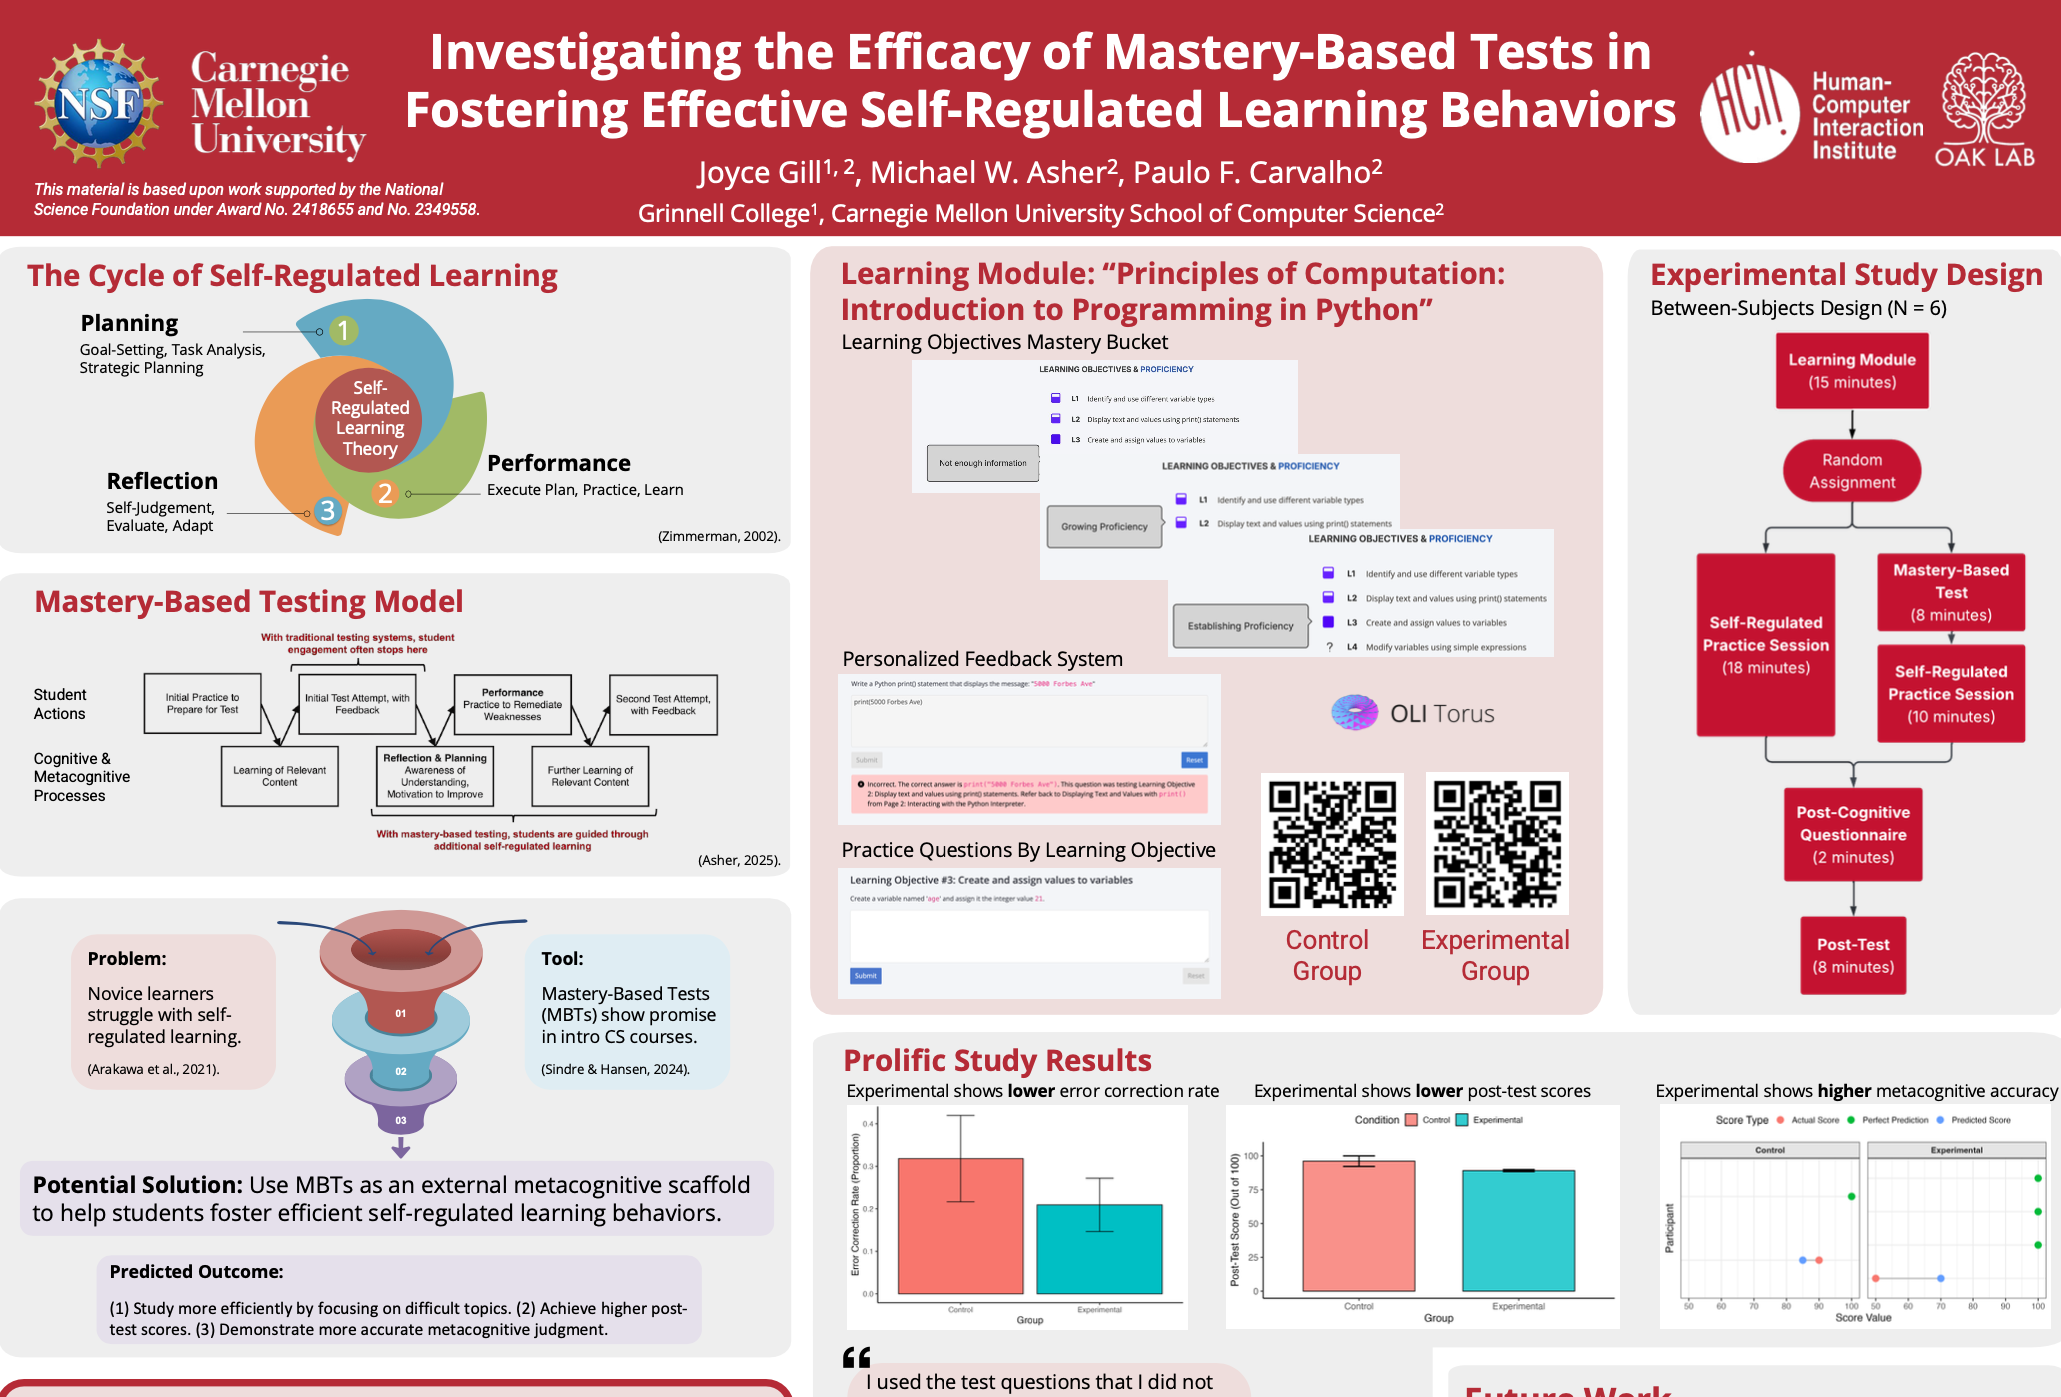
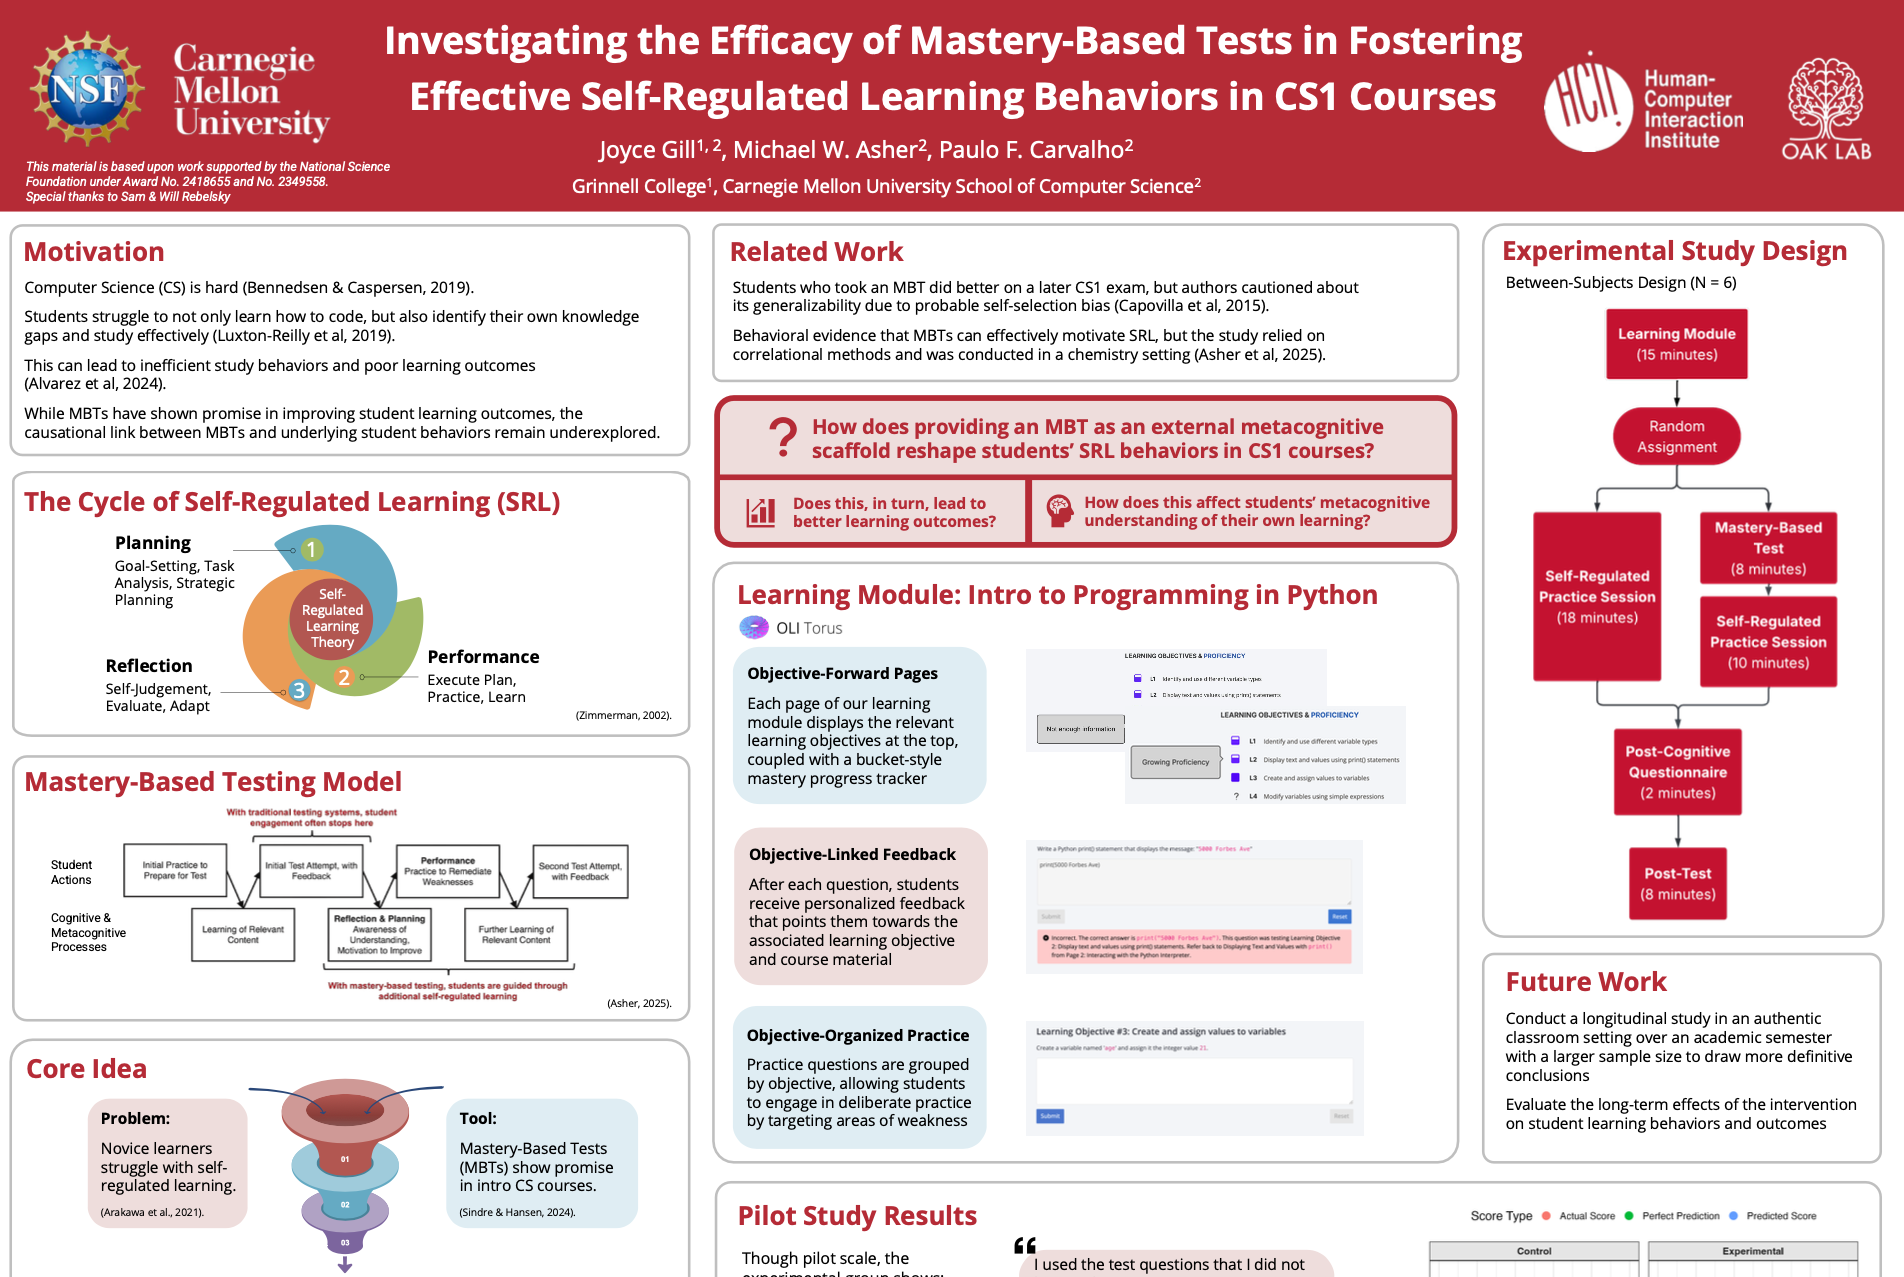
Update SIGCSE

diff --git a/projects.html b/projects.html
@@ -31,12 +31,13 @@
 		<div class="projects-grid">
 			<div class="project">
 				<div class="project-preview">
-					<img src="images/sta230.jpg" alt="CMU HCII REU Research Poster Preview">
+					<img src="images/sta230.jpg" alt="Data Science Research Poster Preview">
 				</div>
 				<div class="project-content">
 					<h3>Data Science Research @ Grinnell College</h3>
-					<p><strong>Gill, J.</strong>, Do, K., Rebelsky, W., (2025). College Navigator: Exploring U.S. Colleges with R Shiny. <em>Midstates Consortium for Math and Science Undergraduate Symposia.</em></p>
-					<p><strong>Gill, J.</strong>, Do, K., Rebelsky, W., (2025). College Navigator: Exploring U.S. Colleges with R Shiny. <em>MINK-WIC Conference Poster Session.</em></p>
+					<p><strong>Gill, J.</strong>, Do, K., Rebelsky, W., (2025). College Navigator: Exploring U.S. Colleges with R Shiny. <em>Midstates Consortium for Physical Sciences, Mathematics, and Computer Science at the University of Chicago.
+					</em></p>
+					<p><strong>Gill, J.</strong>, Do, K., Rebelsky, W., (2025). College Navigator: Exploring U.S. Colleges with R Shiny. <em>MINK-WIC Conference (Missouri-Iowa-Nebraska-Kansas Women-In-Computing) Poster Session.</em></p>
 					<div class="project-links">
 						<a href="documents/Abstract_Khanh_Joyce_Grinnell.pdf" class="project-link" target="_blank">Abstract</a>
 						<a href="https://khanhdo05.shinyapps.io/college-navigator-1/" class="project-link" target="_blank">Website</a>
@@ -49,8 +50,11 @@
 				</div>
 				<div class="project-content">
 					<h3>NSF REU Program @ CMU HCII</h3>
-					<p><strong>Gill, J.</strong>, Asher, M.W., & Carvalho, P.F. (2025). Investigating the Efficacy of Mastery-Based Tests in Fostering Effective Self-Regulated Learning Behaviors.</p>
-					<p>Presented at: (1) CMU HCII Research Symposium, (2) Grinnell College Computer Science Poster Session, (3) MINK-WIC Conference Undergraduate Research Talk.</p>
+					<p><strong>Joyce Gill,</strong> Michael W. Asher, and Paulo F. Carvalho. 2026. Investigating
+						the Efficacy of Mastery-Based Tests in Fostering Effective Self-Regulated
+						Learning Behaviors in CS1 Courses. <em>In Proceedings of the 56th ACM Technical
+							Symposium on Computer Science Education (SIGCSE TS 26)</em></p>
+					<p>Presented at: (1) CMU HCII Research Symposium, (2) Grinnell College Computer Science Honors Poster Session, (3) MINK-WIC Conference Undergraduate Research Talk.</p>
 					<div class="project-links">
 						<a href="documents/cmu-reu-poster.pdf" class="project-link" target="_blank">Poster</a>
 						<a href="https://glacier.andrew.cmu.edu/olisrl/index_csprinciples_landing.html" class="project-link" target="_blank">Experiment</a>
